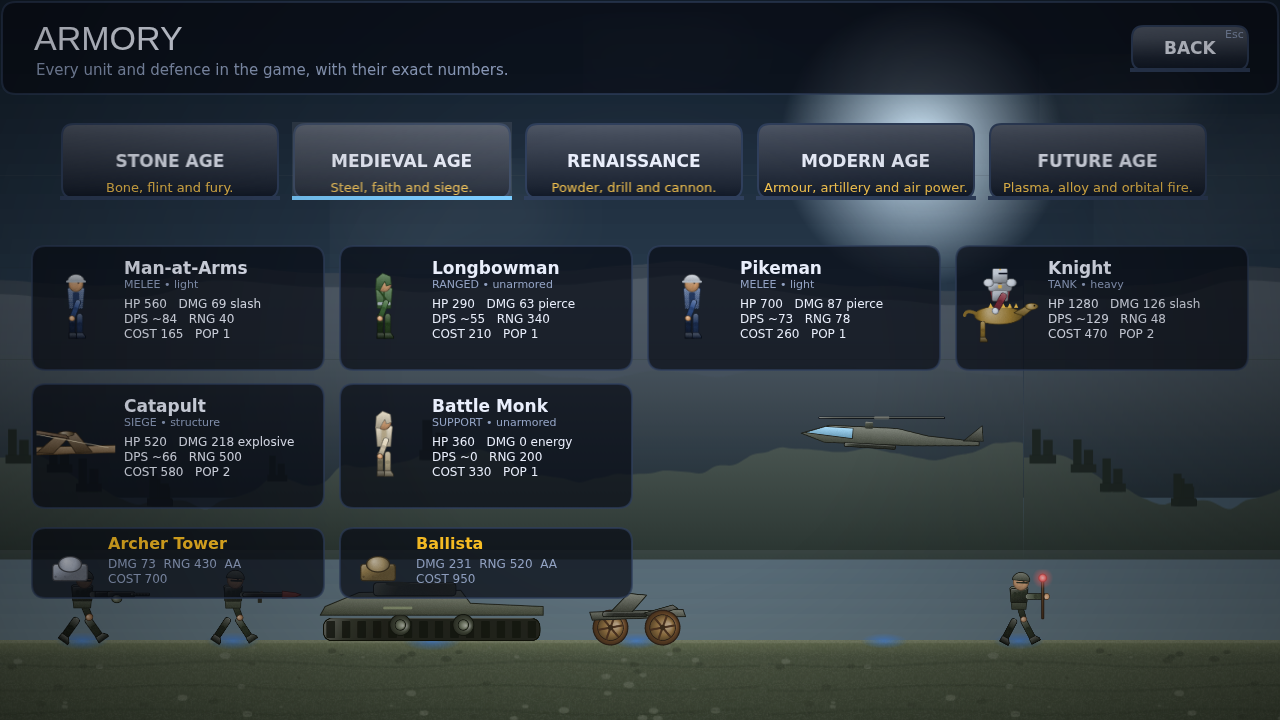
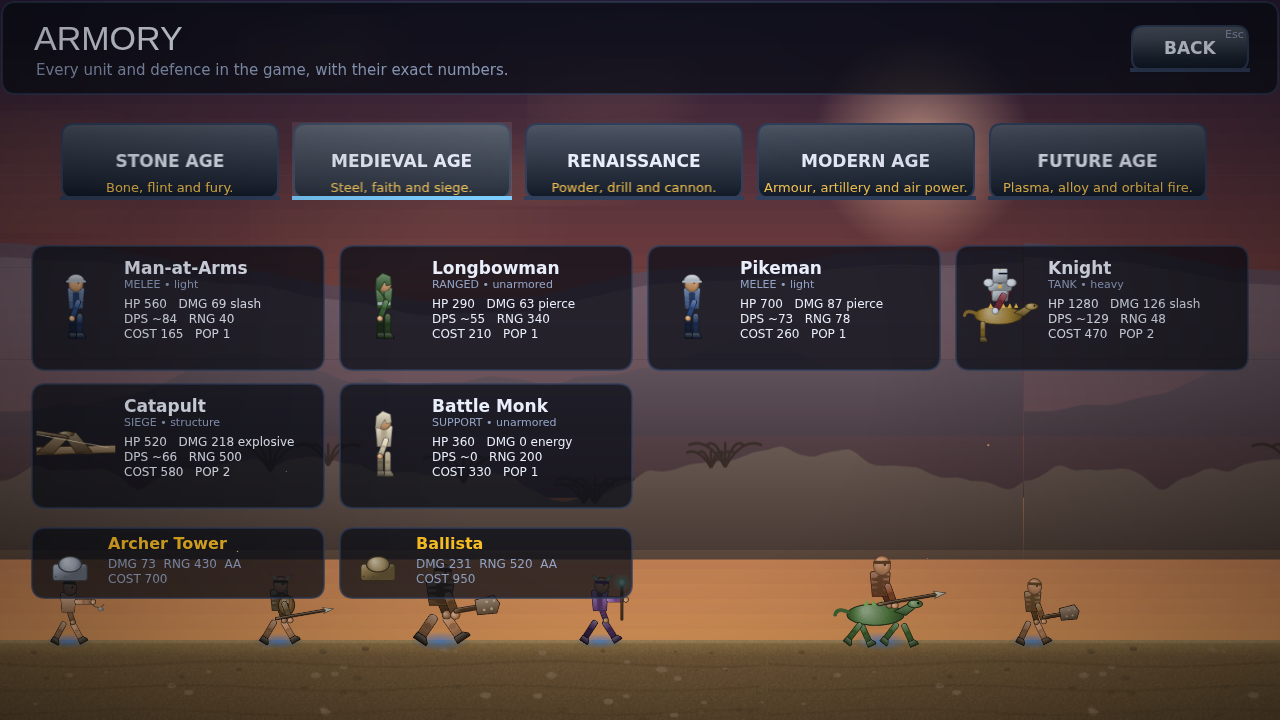
Add first-mission tutorial, harden widgets, and polish presentation
Tutorial
- A short, self-paced hint sequence on a player's first campaign mission.
  Each step waits for the player to actually perform the action (queue a unit,
  earn experience, mount a turret, evolve) rather than advancing on a timer,
  then retires itself.

Robustness
- Bar and Button setters no-op once their scene has torn down. Phaser's
  NineSlice throws inside its quad update if width/tint is set after destroy,
  which surfaced as a crash when a scene restart interleaved with a pending
  HUD update.
- The debug launcher now stops every other active scene, matching the real
  menu flow instead of leaving MenuScene running underneath a battle.

Presentation
- The additive sun was flooding the entire upper sky; halved its size and
  brightness, and darkened the Medieval palette so the night-blue reads.
- Shortened the white hit-flash to 70 ms and made only its first half a solid
  fill. In a heavy melee every unit was being hit constantly, so the old
  110 ms tint-fill left whole armies rendered as featureless white silhouettes.
- Darkened Future-age metals and widened mech leg spacing so heavy walkers
  read as machines instead of pale slabs.
- Turret slot buttons shrink their label so names no longer overflow the card.

Verified: campaign mission 1 → victory → three stars recorded → mission 2
launches with the correct starting gold, with zero page errors.

Claude-Session: https://claude.ai/code/session_01FfdsbES3pBhqF3ja5SmriR

diff --git a/src/ui/tutorial.ts b/src/ui/tutorial.ts
@@ -1,0 +1,140 @@
+import Phaser from 'phaser'
+import { audio } from '../core/audio'
+import { save } from '../core/save'
+import type Battlefield from '../sim/battlefield'
+import { UI } from '../gfx/palette'
+import { label, panel } from './widgets'
+
+interface TutorialStep {
+  /** Shown in the hint panel. */
+  text: string
+  /** Advance once this returns true. */
+  done: (bf: Battlefield) => boolean
+  /** Minimum time the step stays on screen, so hints are readable. */
+  minMs?: number
+}
+
+const STEPS: TutorialStep[] = [
+  {
+    text: 'Train your first unit — click a card in the command bar, or press 1.',
+    done: bf => bf.player.queue.length > 0 || bf.units.some(u => u.faction === 'player')
+  },
+  {
+    text: 'Units march out and fight on their own. Gold arrives every second — keep spending it.',
+    done: bf => bf.units.filter(u => u.alive && u.faction === 'player').length >= 2,
+    minMs: 3500
+  },
+  {
+    text: 'Every kill pays gold and experience. Watch the EVOLUTION bar at the top left.',
+    done: bf => bf.player.xp > 0,
+    minMs: 3000
+  },
+  {
+    text: 'Defend the approach: click a turret slot to mount a permanent defence on your fortress.',
+    done: bf => bf.playerBase.slots.some(s => s.def !== null) || bf.player.xp > bf.player.xpToAdvance * 0.55,
+    minMs: 5000
+  },
+  {
+    text: 'Your special ability is charging. Press Q when it reads READY to clear the field.',
+    done: bf => bf.player.abilityCharge >= 1 || bf.stats.abilitiesUsed > 0,
+    minMs: 4000
+  },
+  {
+    text: 'EVOLUTION bar full? Press E to advance an age — new units, more income, a tougher fortress.',
+    done: bf => bf.player.age > 0,
+    minMs: 4000
+  },
+  {
+    text: 'That is everything. Break their fortress before they break yours. Good luck, commander.',
+    done: () => false,
+    minMs: 6000
+  }
+]
+
+/**
+ * A short, non-blocking hint sequence shown on a player's first campaign
+ * mission. Each step waits for the player to actually do the thing, so it
+ * never races ahead of them.
+ */
+export default class Tutorial {
+  private scene: Phaser.Scene
+  private bf: Battlefield
+  private container: Phaser.GameObjects.Container
+  private text: Phaser.GameObjects.Text
+  private index = -1
+  private elapsed = 0
+  private finished = false
+
+  constructor(scene: Phaser.Scene, bf: Battlefield) {
+    this.scene = scene
+    this.bf = bf
+
+    const width = 700
+    const x = (scene.cameras.main.width - width) / 2
+    this.container = scene.add.container(0, 0).setDepth(1300).setAlpha(0)
+    const bg = panel(scene, x, 96, width, 62, 'ui:glass')
+    this.text = label(scene, x + width / 2, 112, '', {
+      size: 17,
+      align: 'center',
+      color: UI.text,
+      wrap: width - 40
+    })
+    const tag = label(scene, x + 16, 102, 'TRAINING', { size: 10, color: UI.gold, bold: true })
+    this.container.add([bg, tag, this.text])
+
+    this.advance()
+  }
+
+  /** True when this player has never finished the opening mission. */
+  static shouldRun(levelId: string): boolean {
+    return levelId === 'l1_first_blood' && (save.campaign.stars[levelId] ?? 0) === 0
+  }
+
+  private advance(): void {
+    this.index += 1
+    this.elapsed = 0
+    if (this.index >= STEPS.length) {
+      this.dismiss()
+      return
+    }
+    this.text.setText(STEPS[this.index].text)
+    audio.play('ui_hover', 0.4)
+    this.scene.tweens.add({
+      targets: this.container,
+      alpha: 1,
+      duration: 260,
+      ease: 'Quad.easeOut'
+    })
+  }
+
+  update(dtMs: number): void {
+    if (this.finished) return
+    this.elapsed += dtMs
+    const step = STEPS[this.index]
+    if (!step) return
+    if (this.elapsed < (step.minMs ?? 1200)) return
+
+    // The closing line simply times out.
+    if (this.index === STEPS.length - 1) {
+      if (this.elapsed > (step.minMs ?? 6000)) this.dismiss()
+      return
+    }
+    if (step.done(this.bf)) this.advance()
+  }
+
+  dismiss(): void {
+    if (this.finished) return
+    this.finished = true
+    this.scene.tweens.add({
+      targets: this.container,
+      alpha: 0,
+      duration: 320,
+      onComplete: () => this.container.destroy()
+    })
+  }
+
+  destroy(): void {
+    this.finished = true
+    this.container.destroy()
+  }
+}

diff --git a/src/ui/widgets.ts b/src/ui/widgets.ts
@@ -174,7 +174,12 @@ export class Button {
       })
   }
 
+  private get live(): boolean {
+    return Boolean(this.bg.scene)
+  }
+
   setEnabled(value: boolean): this {
+    if (!this.live) return this
     if (this.enabled === value) return this
     this.enabled = value
     const alpha = value ? 1 : 0.42
@@ -195,6 +200,7 @@ export class Button {
   }
 
   setText(text: string): this {
+    if (!this.live) return this
     this.textObj?.setText(text)
     return this
   }
@@ -206,18 +212,21 @@ export class Button {
   }
 
   setSubtext(text: string, color?: number): this {
+    if (!this.live) return this
     this.subObj?.setText(text)
     if (color !== undefined) this.subObj?.setColor(hex(color))
     return this
   }
 
   setAccent(color: number): this {
+    if (!this.live) return this
     this.accentBar.setFillStyle(color, 1)
     return this
   }
 
   /** 0 = ready, 1 = fully masked. Used for build queues and ability charge. */
   setCooldown(ratio: number): this {
+    if (!this.live) return this
     const clamped = Phaser.Math.Clamp(ratio, 0, 1)
     this.cooldownMask.height = this.height * clamped
     return this
@@ -293,7 +302,12 @@ export class Bar {
     container?.add([this.bg, this.fill])
   }
 
+  private get live(): boolean {
+    return Boolean(this.fill.scene) && Boolean(this.bg.scene)
+  }
+
   setValue(ratio: number): this {
+    if (!this.live) return this
     const clamped = Phaser.Math.Clamp(ratio, 0, 1)
     this.fill.width = Math.max(6, this.width * clamped)
     this.fill.setVisible(clamped > 0.001)
@@ -301,17 +315,20 @@ export class Bar {
   }
 
   setColor(color: number): this {
+    if (!this.live) return this
     this.fill.setTint(color)
     return this
   }
 
   setDepth(depth: number): this {
+    if (!this.live) return this
     this.bg.setDepth(depth)
     this.fill.setDepth(depth + 1)
     return this
   }
 
   setVisible(visible: boolean): this {
+    if (!this.live) return this
     this.bg.setVisible(visible)
     this.fill.setVisible(visible && this.fill.width > 6)
     return this

diff --git a/src/scenes/hudScene.ts b/src/scenes/hudScene.ts
@@ -5,6 +5,7 @@ import { ageDef } from '../data/ages'
 import { TURRET_SLOTS, turretsForAge } from '../data/turrets'
 import type { UnitDef } from '../data/types'
 import { AGE_THEMES, TIER_COLORS, UI } from '../gfx/palette'
+import Tutorial from '../ui/tutorial'
 import { Bar, Button, Modal, Tooltip, formatNumber, formatTime, hex, label, panel } from '../ui/widgets'
 import BattleScene from './battleScene'
 
@@ -45,6 +46,7 @@ export default class HUDScene extends Phaser.Scene {
   private toastTween?: Phaser.Tweens.Tween
   private pauseModal?: Modal
   private turretPopup?: Phaser.GameObjects.Container
+  private tutorial?: Tutorial
   private lastAge = -1
 
   constructor() {
@@ -77,9 +79,16 @@ export default class HUDScene extends Phaser.Scene {
       gameEvents.off('match:paused', this.handlePause, this)
       this.tooltip.destroy()
       this.pauseModal?.destroy()
+      this.tutorial?.destroy()
     })
 
     this.rebuildRoster()
+
+    // First-time players get a short, self-paced walkthrough.
+    const level = session.setup.level
+    if (session.setup.mode === 'campaign' && level && Tutorial.shouldRun(level.id)) {
+      this.tutorial = new Tutorial(this, this.battle.battlefield)
+    }
   }
 
   // ─────────────────────────────── Top bar ───────────────────────────────
@@ -411,9 +420,10 @@ export default class HUDScene extends Phaser.Scene {
 
   // ─────────────────────────────── Per-frame ───────────────────────────────
 
-  override update(): void {
+  override update(_time: number, delta: number): void {
     const bf = this.battle?.battlefield
     if (!bf) return
+    if (!this.battle.paused) this.tutorial?.update(delta)
     const player = bf.player
     const enemy = bf.enemy
 

diff --git a/src/gfx/background.ts b/src/gfx/background.ts
@@ -44,7 +44,7 @@ export default class Background {
       .image(w * 0.72, h * 0.2, 'sky:sun')
       .setScrollFactor(0.02)
       .setDepth(-990)
-      .setScale(1.1)
+      .setScale(0.85)
       .setBlendMode(Phaser.BlendModes.ADD)
 
     // Deliberately faint: clouds add depth, but at high alpha they flatten the
@@ -116,7 +116,7 @@ export default class Background {
       this.sky.fillRect(0, (h * i) / bands - 1, w, h / bands + 2)
     }
 
-    this.sun.setTint(theme.sun)
+    this.sun.setTint(shade(theme.sun, -0.5))
     this.clouds.forEach(c => c.setTint(shade(theme.fog, -0.2)))
 
     this.ridges.forEach((ridge, i) => {
@@ -226,7 +226,7 @@ export default class Background {
     })
 
     // A gentle heat shimmer on the sun.
-    this.sun.setScale(1.1 + Math.sin(this.time / 900) * 0.03)
+    this.sun.setScale(0.85 + Math.sin(this.time / 900) * 0.025)
   }
 
   /** Briefly washes the sky when a special ability fires. */

diff --git a/src/main.ts b/src/main.ts
@@ -48,7 +48,9 @@ function start(): void {
   debug.__gowStart = (mode, difficulty, levelId) => {
     const level = levelId ? LEVELS_BY_ID[levelId] : undefined
     session.start(level ? { mode, difficulty, level } : { mode, difficulty })
-    game.scene.stop('HUDScene')
+    for (const scene of game.scene.scenes) {
+      if (scene.scene.isActive() && scene.scene.key !== 'BattleScene') scene.scene.stop()
+    }
     game.scene.stop('BattleScene')
     game.scene.start('BattleScene')
   }

diff --git a/src/gfx/palette.ts b/src/gfx/palette.ts
@@ -59,7 +59,7 @@ export const AGE_THEMES: AgeTheme[] = [
   {
     name: 'Medieval Age',
     tagline: 'Steel, faith and siege.',
-    sky: [0x121d38, 0x2f4d73, 0x6d93ad],
+    sky: [0x0e1830, 0x27446a, 0x5c7e97],
     sun: 0xfff3d0,
     ridges: [0x243448, 0x2d4356, 0x35513f],
     ground: 0x3f5c2e,
